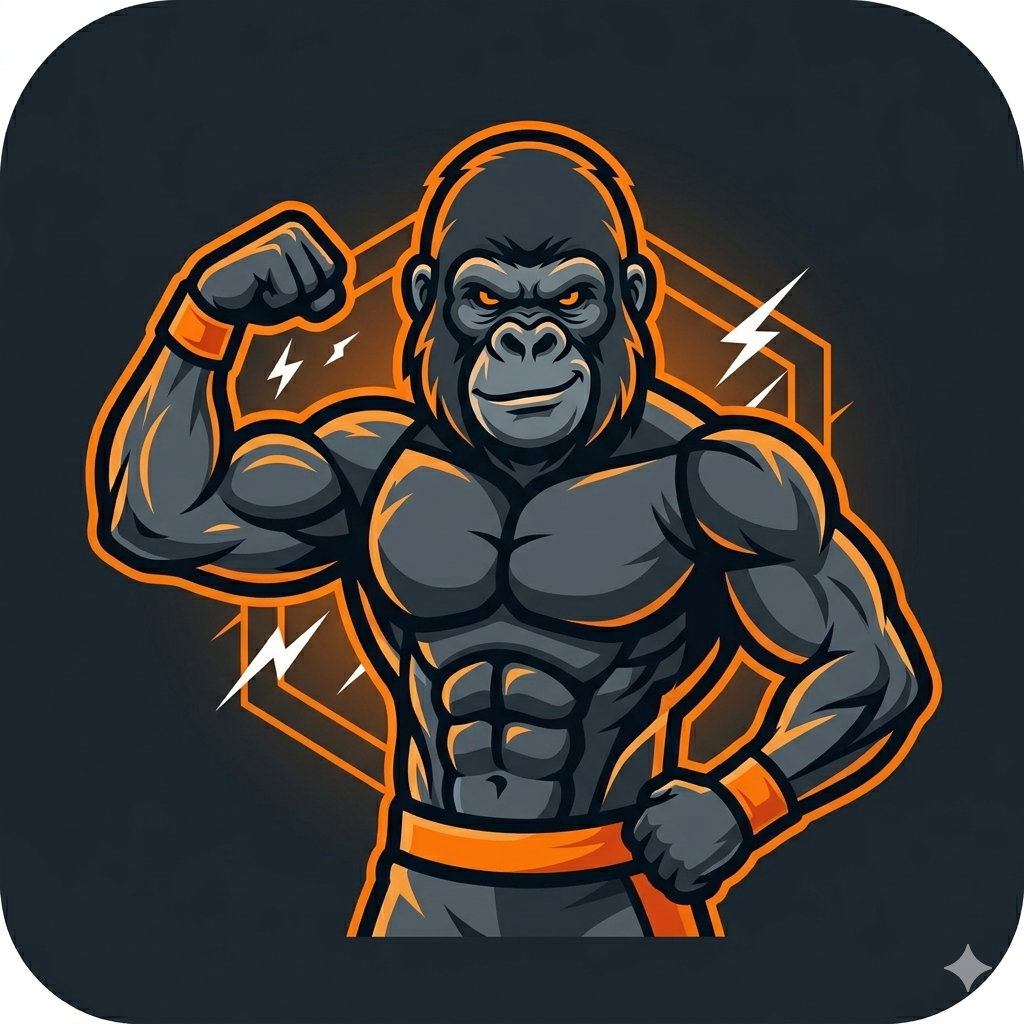
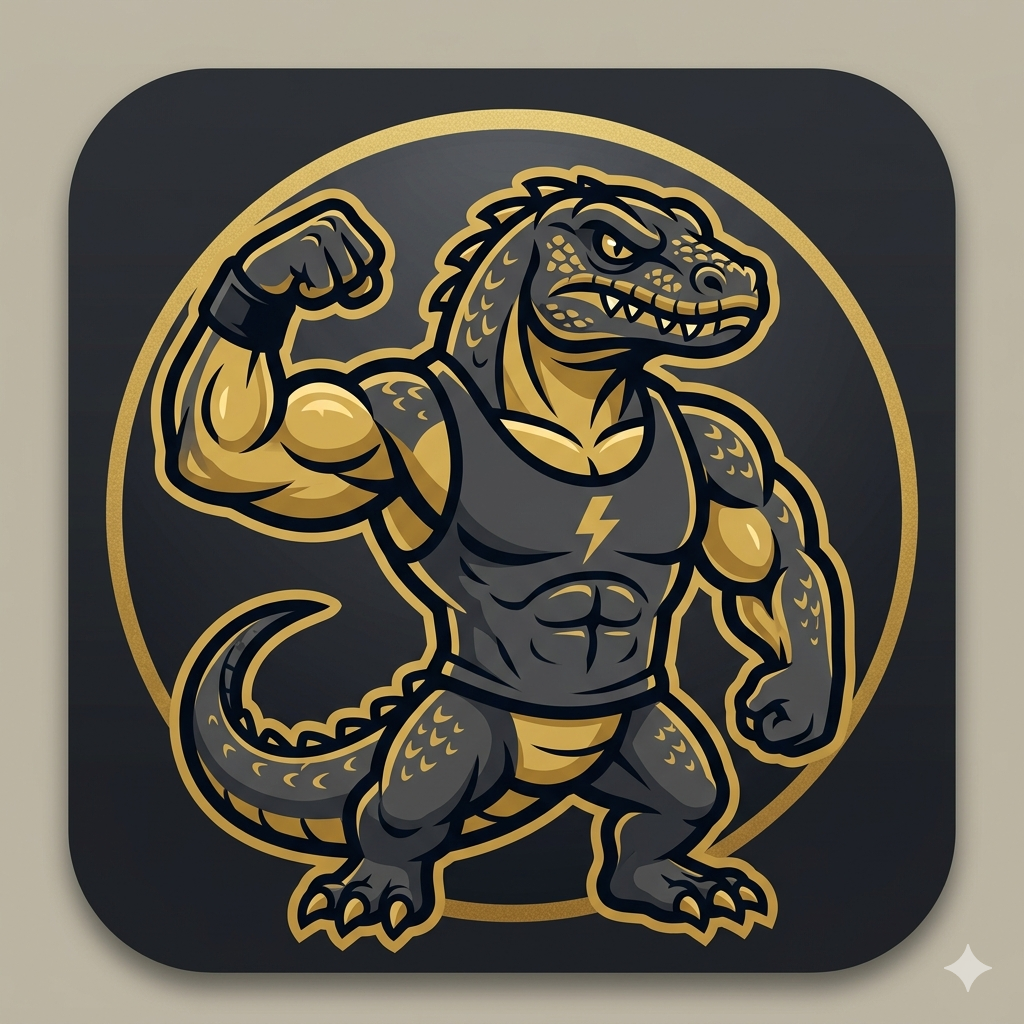
Rebrand to GetReppd with new reptile mascot
- Replace gorilla mascot image with reptile mascot
- Update app name from FitForge to GetReppd throughout
- Updates: nav header, login screen, profile footer, HTML title, rank welcome message

diff --git a/src/screens/LoginScreen.jsx b/src/screens/LoginScreen.jsx
@@ -213,9 +213,9 @@ function LoginScreen({ accessDenied = false }) {
 
         {/* Logo — always visible */}
         <div className="text-center mb-8">
-          <img src="/mascot.png" alt="FitForge mascot" className="w-28 h-28 object-contain mx-auto mb-3" />
+          <img src="/mascot.png" alt="GetReppd mascot" className="w-28 h-28 object-contain mx-auto mb-3" />
           <h1 className="text-5xl font-black text-white mb-2 tracking-tight">
-            Fit<span className="text-orange-500">Forge</span>
+            Get<span className="text-orange-500">Reppd</span>
           </h1>
           <p className="text-slate-400 text-lg font-medium">Build your best self</p>
         </div>
@@ -442,7 +442,7 @@ function LoginScreen({ accessDenied = false }) {
             <div className="mb-6">
               <h2 className="text-xl font-bold text-white mb-1">Request Access</h2>
               <p className="text-slate-400 text-sm">
-                FitForge is currently invite-only. Leave your details and you'll be notified when access is granted.
+                GetReppd is currently invite-only. Leave your details and you'll be notified when access is granted.
               </p>
             </div>
 

diff --git a/index.html b/index.html
@@ -6,11 +6,11 @@
     <meta name="theme-color" content="#F97316" />
     <meta name="apple-mobile-web-app-capable" content="yes" />
     <meta name="apple-mobile-web-app-status-bar-style" content="black-translucent" />
-    <meta name="apple-mobile-web-app-title" content="FitForge" />
+    <meta name="apple-mobile-web-app-title" content="GetReppd" />
     <meta name="description" content="Personal Workout Planning & Tracking" />
     <link rel="icon" type="image/png" href="/icon-192.png" />
     <link rel="apple-touch-icon" href="/icon-192.png" />
-    <title>FitForge</title>
+    <title>GetReppd</title>
   </head>
   <body>
     <div id="root"></div>

diff --git a/src/layouts/MainLayout.jsx b/src/layouts/MainLayout.jsx
@@ -9,8 +9,8 @@ function MainLayout() {
       <header className="fixed top-0 left-0 right-0 z-50 bg-white dark:bg-slate-800 border-b border-slate-200 dark:border-slate-700 shadow-sm">
         <div className="max-w-md mx-auto px-4 h-14 flex items-center justify-between">
           <div className="flex items-center gap-2">
-            <img src="/mascot.png" alt="FitForge mascot" className="w-9 h-9 object-contain" />
-            <span className="text-xl font-bold text-orange-500">FitForge</span>
+            <img src="/mascot.png" alt="GetReppd mascot" className="w-9 h-9 object-contain" />
+            <span className="text-xl font-bold text-orange-500">GetReppd</span>
           </div>
           <ThemeToggle />
         </div>

diff --git a/src/data/ranks.js b/src/data/ranks.js
@@ -11,7 +11,7 @@ export const RANKS = [
     icon: '⚙️',
     theme: 'gray',
     colour: '#94a3b8',
-    perk: 'Welcome to FitForge. Your journey begins.',
+    perk: 'Welcome to GetReppd. Your journey begins.',
   },
   {
     level: 2,

diff --git a/src/screens/ProfileScreen.jsx b/src/screens/ProfileScreen.jsx
@@ -350,7 +350,7 @@ function ProfileScreen() {
 
       {/* App Version */}
       <p className="text-center text-slate-400 text-xs pb-4">
-        FitForge v{appVersion}
+        GetReppd v{appVersion}
       </p>
     </div>
   )